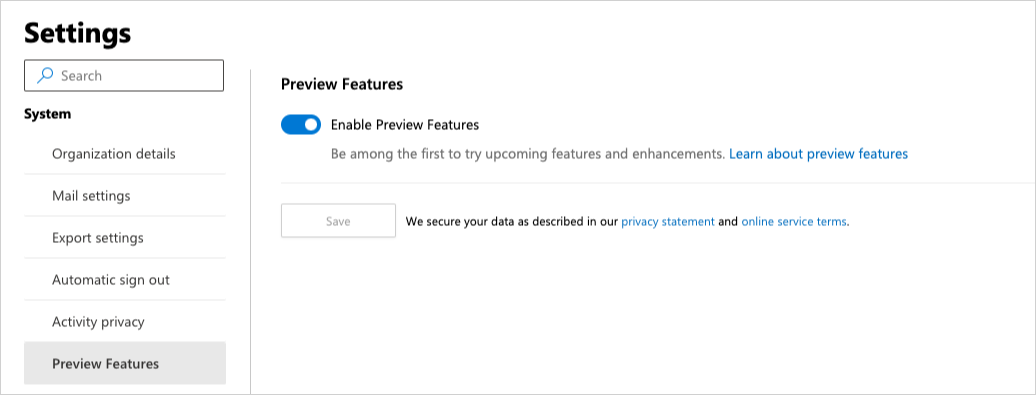
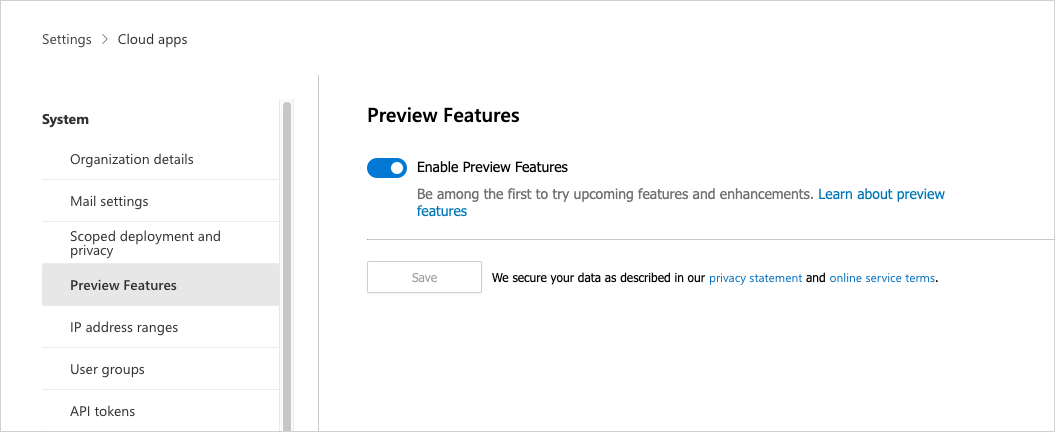
update jan 26

diff --git a/CloudAppSecurityDocs/cas-compliance-trust.md b/CloudAppSecurityDocs/cas-compliance-trust.md
@@ -45,7 +45,7 @@ For more information, go to [Microsoft Compliance Offerings](/compliance/regulat
 ### You're the owner of your data
 
 - In Defender for Cloud Apps, your administrators can view the identifiable personal data stored in the service from the portal using the Search bar.
-- Admins can search for a specific user's metadata or user's activity. Clicking on an entity opens the [**Users and accounts**](accounts.md). The **Users and accounts** page provides you with comprehensive details about the entity that are pulled from connected cloud applications. It also provides the user's activity history and security alerts related to the user.
+- Admins can search for a specific user's metadata or user's activity. Selecting an entity opens the [**Users**](accounts.md) page. The **Users** page provides you with comprehensive details about the entity that are pulled from connected cloud applications. It also provides the user's activity history and security alerts related to the user.
 
 - You own your data and can cancel subscriptions and request deletion of your data at any time. If you don't renew your subscription, your data will be deleted within the timeline specified in the [Online Services Terms](https://www.microsoft.com/licensing/docs?DocumentTypeId=31&redirected=true&Mode=3).
 

diff --git a/CloudAppSecurityDocs/preview-features.md b/CloudAppSecurityDocs/preview-features.md
@@ -41,16 +41,13 @@ You'll have access to upcoming features that you can provide feedback on to help
 Turn on the preview experience setting to be among the first to try upcoming features.
 
 1. In the navigation pane, select **Settings**.
-2. Select **System**.
+2. Select **Cloud Apps**.
 3. Select **Preview features** > **Enable preview features**.
 4. Select **Save**.
 
 You'll know you have preview features turned on when you see that the **Enable preview features** check box is selected.
 
 :::image type="content" source="media/preview-features.png" alt-text="Enable preview features.":::
-
-> [!NOTE]
-> To learn how to enable preview features in Defender for Cloud Apps in the Microsoft 365 Defender portal, see [Preview Features in Defender for Cloud Apps](/microsoft-365/security/defender/microsoft-365-security-center-defender-cloud-apps#preview-features-in-defender-for-cloud-apps).
 
 ## Next steps
 
